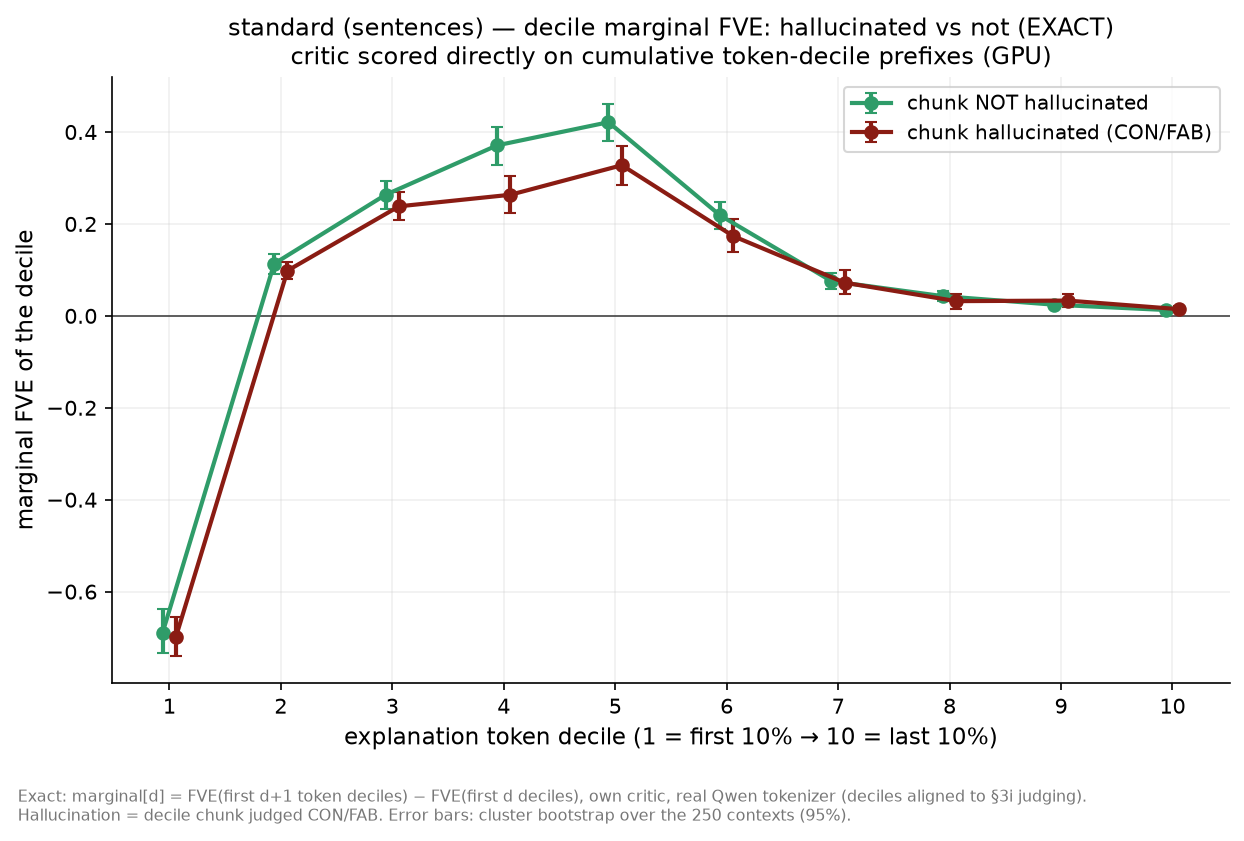
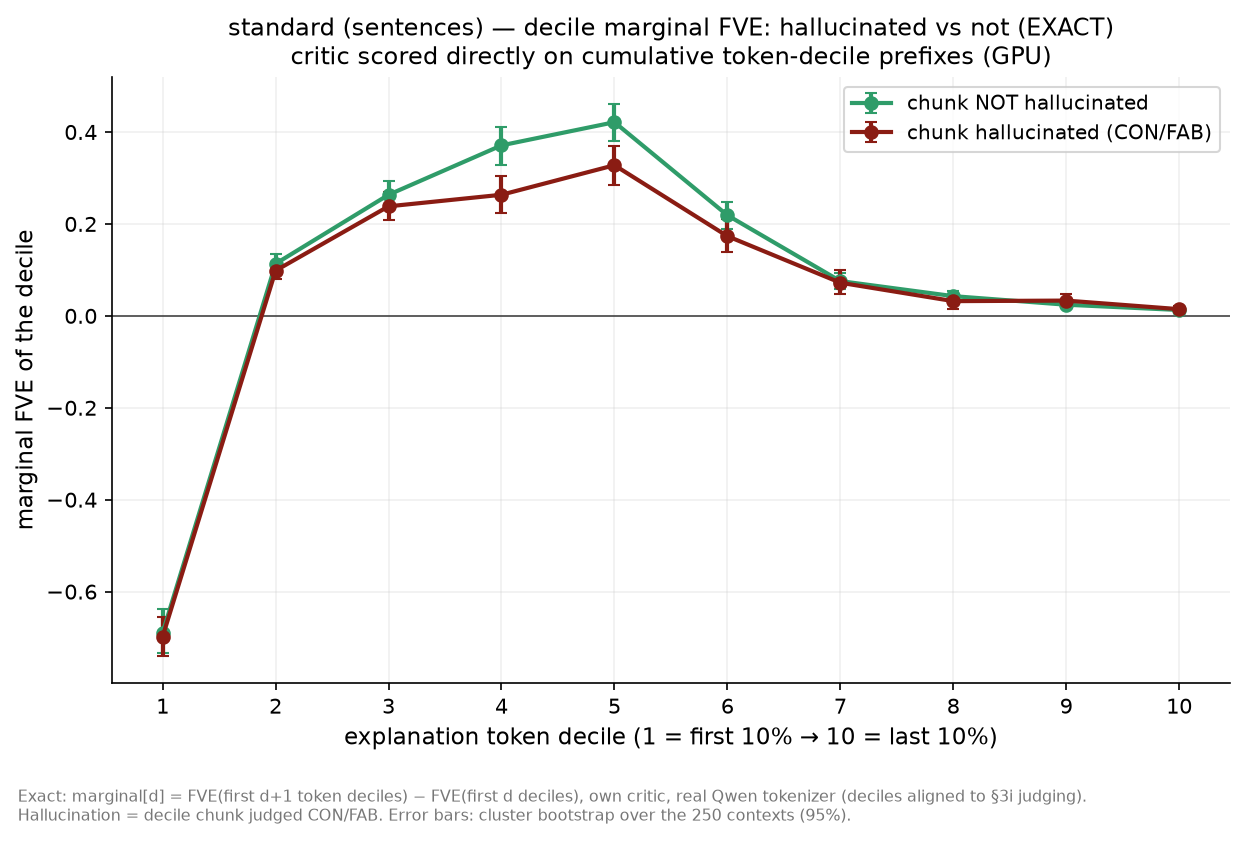
📊 align the two series at the same x per decile (drop dodge) — clearer within-decile comparison
Claude-Session: https://claude.ai/code/session_01TL6z86zGZ3KaZ7ZY21FWL8

diff --git a/experiments/qwen3.6-27b-halluc-marginal/plot_decile_marg.py b/experiments/qwen3.6-27b-halluc-marginal/plot_decile_marg.py
@@ -59,9 +59,9 @@ for arm, title in [("mat", "matryoshka (lines)"), ("std", "standard (sentences)"
     x = np.arange(1, NCHUNK + 1)
 
     fig, ax = plt.subplots(figsize=(8.4, 5.2))
-    ax.errorbar(x - 0.06, pn, yerr=[pn - nlo, nhi - pn], fmt="o-", color=GREEN, ms=6, lw=2, capsize=3,
+    ax.errorbar(x, pn, yerr=[pn - nlo, nhi - pn], fmt="o-", color=GREEN, ms=6, lw=2, capsize=3,
                 label="chunk NOT hallucinated")
-    ax.errorbar(x + 0.06, ph, yerr=[ph - hlo, hhi - ph], fmt="o-", color=RED, ms=6, lw=2, capsize=3,
+    ax.errorbar(x, ph, yerr=[ph - hlo, hhi - ph], fmt="o-", color=RED, ms=6, lw=2, capsize=3,
                 label="chunk hallucinated (CON/FAB)")
     ax.axhline(0, color="#444", lw=0.8)
     ax.set_xticks(x)
